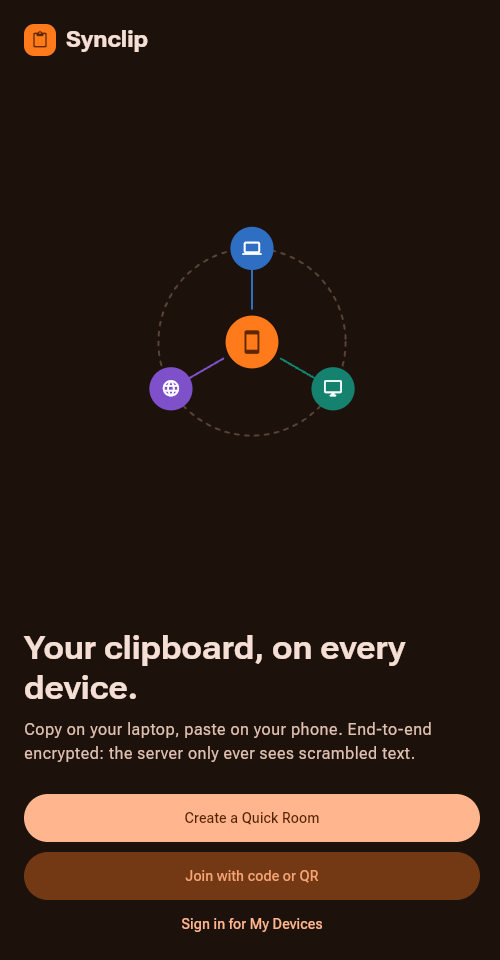
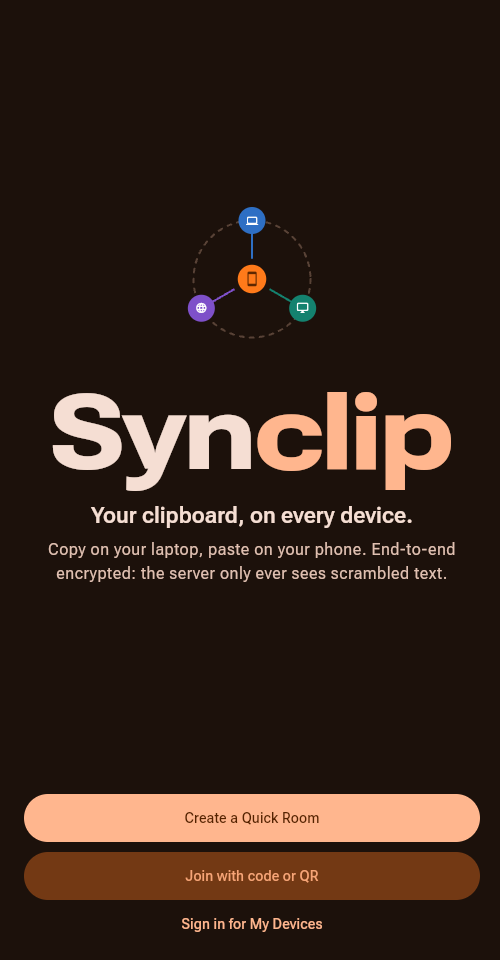
feat(onboarding): make the Synclip wordmark the centred hero
- Huge two-tone Synclip wordmark at the centre of the Welcome screen,
  Roboto Flex at its widest, sized to the screen width (logotype, so it
  ignores text scaling) and exposed as a heading
- Device ring shrinks above it; tagline and promise centred below
- Test: wordmark is a header, horizontally centred, in the middle band,
  and more than twice the tagline size
- Design canvas Welcome board and PLAN.md §7.6 updated to match

diff --git a/design/canvas/project/ScreenWelcome.dc.html b/design/canvas/project/ScreenWelcome.dc.html
@@ -16,29 +16,22 @@ a{color:#A43D00}a:hover{color:#7A2C00}
 button{font-family:inherit;cursor:pointer}
 </style>
 </helmet>
-<div style="width: 390px; height: 844px; box-sizing: border-box; padding: 56px 24px 32px; background: #FFF8F6; display: flex; flex-direction: column; font-family: 'Roboto Flex', system-ui, sans-serif; color: #231A16;">
-  <div style="display: flex; align-items: center; gap: 10px;">
-    <div style="width: 32px; height: 32px; border-radius: 10px; background: #FF7A1A; color: #3A1400; display: flex; align-items: center; justify-content: center;"><svg width="18" height="18" viewBox="0 0 24 24" fill="none" stroke="currentColor" stroke-width="2.4" stroke-linecap="round" stroke-linejoin="round"><rect x="8" y="2" width="8" height="4" rx="1"/><path d="M16 4h2a2 2 0 0 1 2 2v14a2 2 0 0 1-2 2H6a2 2 0 0 1-2-2V6a2 2 0 0 1 2-2h2"/></svg></div>
-    <span style="font-size: 22px; font-weight: 750; font-stretch: 125%;">Synclip</span>
-  </div>
-
-  <div style="flex-grow: 1; display: flex; align-items: center; justify-content: center;">
-    <div style="position: relative; width: 260px; height: 260px;">
-      <div style="position: absolute; left: 20px; top: 20px; width: 220px; height: 220px; border-radius: 50%; border: 2px dashed #DDC1B6; box-sizing: border-box;"></div>
-      <svg width="260" height="260" viewBox="0 0 260 260" style="position: absolute; left: 0; top: 0;" fill="none" stroke-width="2" stroke-linecap="round"><path d="M130 130 L130 30" stroke="#2E6FC4"/><path d="M130 130 L43 180" stroke="#14826F"/><path d="M130 130 L217 180" stroke="#7E50C9"/></svg>
-      <div style="position: absolute; left: 94px; top: 94px; width: 72px; height: 72px; border-radius: 36px; background: #FF7A1A; color: #3A1400; display: flex; align-items: center; justify-content: center; box-shadow: 0 0 0 8px #FFF8F6;"><svg width="30" height="30" viewBox="0 0 24 24" fill="none" stroke="currentColor" stroke-width="2" stroke-linecap="round" stroke-linejoin="round"><rect x="5" y="2" width="14" height="20" rx="2"/><path d="M12 18h.01"/></svg></div>
-      <div style="position: absolute; left: 106px; top: 6px; width: 48px; height: 48px; border-radius: 24px; background: #2E6FC4; color: #FFFFFF; display: flex; align-items: center; justify-content: center;"><svg width="22" height="22" viewBox="0 0 24 24" fill="none" stroke="currentColor" stroke-width="2" stroke-linecap="round" stroke-linejoin="round"><path d="M4 16V6a2 2 0 0 1 2-2h12a2 2 0 0 1 2 2v10"/><path d="M2 20h20"/></svg></div>
-      <div style="position: absolute; left: 19px; top: 156px; width: 48px; height: 48px; border-radius: 24px; background: #14826F; color: #FFFFFF; display: flex; align-items: center; justify-content: center;"><svg width="22" height="22" viewBox="0 0 24 24" fill="none" stroke="currentColor" stroke-width="2" stroke-linecap="round" stroke-linejoin="round"><rect x="2" y="3" width="20" height="14" rx="2"/><path d="M8 21h8M12 17v4"/></svg></div>
-      <div style="position: absolute; left: 193px; top: 156px; width: 48px; height: 48px; border-radius: 24px; background: #7E50C9; color: #FFFFFF; display: flex; align-items: center; justify-content: center;"><svg width="22" height="22" viewBox="0 0 24 24" fill="none" stroke="currentColor" stroke-width="2" stroke-linecap="round" stroke-linejoin="round"><circle cx="12" cy="12" r="10"/><path d="M2 12h20M12 2a15 15 0 0 1 0 20M12 2a15 15 0 0 0 0 20"/></svg></div>
+<div style="width: 390px; height: 844px; box-sizing: border-box; padding: 40px 24px 28px; background: #FFF8F6; display: flex; flex-direction: column; font-family: 'Roboto Flex', system-ui, sans-serif; color: #231A16;">
+  <div style="flex-grow: 1; display: flex; flex-direction: column; align-items: center; justify-content: center; gap: 0;">
+    <div style="position: relative; width: 150px; height: 150px; margin-bottom: 28px;">
+      <div style="position: absolute; left: 16px; top: 16px; width: 118px; height: 118px; border-radius: 50%; border: 2px dashed #DDC1B6; box-sizing: border-box;"></div>
+      <svg width="150" height="150" viewBox="0 0 150 150" style="position: absolute; left: 0; top: 0;" fill="none" stroke-width="2" stroke-linecap="round"><path d="M75 75 L75 16" stroke="#2E6FC4"/><path d="M75 75 L24 104" stroke="#7E50C9"/><path d="M75 75 L126 104" stroke="#14826F"/></svg>
+      <div style="position: absolute; left: 55px; top: 55px; width: 40px; height: 40px; border-radius: 20px; background: #FF7A1A; color: #3A1400; display: flex; align-items: center; justify-content: center; box-shadow: 0 0 0 5px #FFF8F6;"><svg width="18" height="18" viewBox="0 0 24 24" fill="none" stroke="currentColor" stroke-width="2" stroke-linecap="round" stroke-linejoin="round"><rect x="5" y="2" width="14" height="20" rx="2"/><path d="M12 18h.01"/></svg></div>
+      <div style="position: absolute; left: 61px; top: 2px; width: 28px; height: 28px; border-radius: 14px; background: #2E6FC4; color: #FFFFFF; display: flex; align-items: center; justify-content: center;"><svg width="14" height="14" viewBox="0 0 24 24" fill="none" stroke="currentColor" stroke-width="2" stroke-linecap="round" stroke-linejoin="round"><path d="M4 16V6a2 2 0 0 1 2-2h12a2 2 0 0 1 2 2v10"/><path d="M2 20h20"/></svg></div>
+      <div style="position: absolute; left: 10px; top: 90px; width: 28px; height: 28px; border-radius: 14px; background: #7E50C9; color: #FFFFFF; display: flex; align-items: center; justify-content: center;"><svg width="14" height="14" viewBox="0 0 24 24" fill="none" stroke="currentColor" stroke-width="2" stroke-linecap="round" stroke-linejoin="round"><circle cx="12" cy="12" r="10"/><path d="M2 12h20M12 2a15 15 0 0 1 0 20M12 2a15 15 0 0 0 0 20"/></svg></div>
+      <div style="position: absolute; left: 112px; top: 90px; width: 28px; height: 28px; border-radius: 14px; background: #14826F; color: #FFFFFF; display: flex; align-items: center; justify-content: center;"><svg width="14" height="14" viewBox="0 0 24 24" fill="none" stroke="currentColor" stroke-width="2" stroke-linecap="round" stroke-linejoin="round"><rect x="2" y="3" width="20" height="14" rx="2"/><path d="M8 21h8M12 17v4"/></svg></div>
     </div>
+    <h1 style="margin: 0; font-size: 78px; line-height: 1; letter-spacing: -2px; font-weight: 900; font-stretch: 151%; white-space: nowrap;">Syn<span style="color: #A43D00;">clip</span></h1>
+    <div style="margin-top: 16px; font-size: 22px; font-weight: 600; text-align: center;">Your clipboard, on every device.</div>
+    <p style="margin: 8px 0 0; font-size: 16px; line-height: 1.5; color: #56423A; text-align: center;">Copy on your laptop, paste on your phone. End-to-end encrypted: the server only ever sees scrambled text.</p>
   </div>
 
-  <div style="display: flex; flex-direction: column; gap: 10px; padding-bottom: 28px;">
-    <h1 style="margin: 0; font-size: 34px; line-height: 1.1; font-weight: 750; font-stretch: 120%;">Your clipboard, on every device.</h1>
-    <p style="margin: 0; font-size: 16px; line-height: 1.5; color: #56423A;">Copy on your laptop, paste on your phone. End-to-end encrypted: the server only ever sees scrambled text.</p>
-  </div>
-
-  <div style="display: flex; flex-direction: column; gap: 10px;">
+  <div style="display: flex; flex-direction: column; gap: 10px; margin-top: 28px;">
     <button style="height: 56px; border-radius: 28px; border: none; background: #A43D00; color: #FFFFFF; font-size: 16px; font-weight: 600;">Create a Quick Room</button>
     <button style="height: 56px; border-radius: 28px; border: none; background: #FFDBCC; color: #2C160C; font-size: 16px; font-weight: 600;">Join with code or QR</button>
     <button style="height: 48px; border-radius: 24px; border: none; background: transparent; color: #A43D00; font-size: 15px; font-weight: 600;">Sign in for My Devices</button>

diff --git a/lib/features/onboarding/presentation/welcome_screen.dart b/lib/features/onboarding/presentation/welcome_screen.dart
@@ -1,12 +1,16 @@
+import 'dart:math' as math;
+
 import 'package:flutter/material.dart';
 import 'package:synclip/app/theme/tokens.dart';
 import 'package:synclip/shared/widgets/device_ring.dart';
 
-/// First screen: the promise and the three ways in (PLAN.md §7.6.1).
+/// First screen: the brand as the hero, then the three ways in
+/// (PLAN.md §7.6.1).
 class WelcomeScreen extends StatelessWidget {
   const new({super.key});
 
   static const _illustration = DeviceRing(
+    size: 150,
     self: RingNode(
       name: 'this device',
       icon: Icons.smartphone_rounded,
@@ -53,53 +57,60 @@ class WelcomeScreen extends StatelessWidget {
                 child: Column(
                   crossAxisAlignment: CrossAxisAlignment.stretch,
                   children: [
-                    Row(
-                      children: [
-                        Container(
-                          width: 32,
-                          height: 32,
-                          decoration: BoxDecoration(
-                            color: scheme.primaryContainer,
-                            borderRadius: BorderRadius.circular(10),
-                          ),
-                          child: Icon(
-                            Icons.content_paste_rounded,
-                            size: 18,
-                            color: scheme.onPrimaryContainer,
-                          ),
-                        ),
-                        const SizedBox(width: 10),
-                        Flexible(
-                          child: Text(
-                            'Synclip',
-                            overflow: TextOverflow.ellipsis,
-                            style: theme.textTheme.titleLarge?.copyWith(
-                              fontWeight: FontWeight.w800,
-                              fontVariations: const [FontVariation.width(125)],
+                    Expanded(
+                      child: Column(
+                        mainAxisAlignment: MainAxisAlignment.center,
+                        children: [
+                          const ExcludeSemantics(child: _illustration),
+                          const SizedBox(height: 28),
+                          Semantics(
+                            header: true,
+                            child: Text.rich(
+                              TextSpan(
+                                children: [
+                                  const TextSpan(text: 'Syn'),
+                                  TextSpan(
+                                    text: 'clip',
+                                    style: TextStyle(color: scheme.primary),
+                                  ),
+                                ],
+                              ),
+                              // A logotype: sized by the screen, not by
+                              // the text-size setting (WCAG 1.4.4 exempt).
+                              textScaler: TextScaler.noScaling,
+                              style: theme.textTheme.displayLarge?.copyWith(
+                                fontSize: math.min(
+                                  112,
+                                  (viewport.maxWidth - 2 * Tokens.gutter) / 4.4,
+                                ),
+                                height: 1,
+                                letterSpacing: -2,
+                                fontWeight: FontWeight.w900,
+                                fontVariations: const [
+                                  FontVariation.width(Tokens.wordmarkWidth),
+                                ],
+                              ),
                             ),
                           ),
-                        ),
-                      ],
-                    ),
-                    const Expanded(
-                      child: Padding(
-                        padding: EdgeInsets.symmetric(vertical: 32),
-                        child: Center(
-                          child: ExcludeSemantics(child: _illustration),
-                        ),
-                      ),
-                    ),
-                    Text(
-                      'Your clipboard, on every device.',
-                      style: theme.textTheme.headlineLarge,
-                    ),
-                    const SizedBox(height: 10),
-                    Text(
-                      'Copy on your laptop, paste on your phone. '
-                      'End-to-end encrypted: the server only ever sees '
-                      'scrambled text.',
-                      style: theme.textTheme.bodyLarge?.copyWith(
-                        color: scheme.onSurfaceVariant,
+                          const SizedBox(height: 16),
+                          Text(
+                            'Your clipboard, on every device.',
+                            textAlign: TextAlign.center,
+                            style: theme.textTheme.titleLarge?.copyWith(
+                              fontWeight: FontWeight.w600,
+                            ),
+                          ),
+                          const SizedBox(height: 8),
+                          Text(
+                            'Copy on your laptop, paste on your phone. '
+                            'End-to-end encrypted: the server only ever '
+                            'sees scrambled text.',
+                            textAlign: TextAlign.center,
+                            style: theme.textTheme.bodyLarge?.copyWith(
+                              color: scheme.onSurfaceVariant,
+                            ),
+                          ),
+                        ],
                       ),
                     ),
                     const SizedBox(height: 28),

diff --git a/test/features/onboarding/welcome_screen_test.dart b/test/features/onboarding/welcome_screen_test.dart
@@ -46,6 +46,32 @@ void main() {
     });
   }
 
+  testWidgets('makes the Synclip wordmark the big, centred hero', (
+    tester,
+  ) async {
+    final handle = tester.ensureSemantics();
+    await tester.pumpWidget(_app(Brightness.light));
+
+    final wordmark = find.text('Synclip', findRichText: true);
+    expect(wordmark, findsOneWidget);
+    expect(tester.getSemantics(wordmark), isSemantics(isHeader: true));
+
+    final screen = tester.getSize(find.byType(WelcomeScreen));
+    final centre = tester.getCenter(wordmark);
+    expect(centre.dx, moreOrLessEquals(screen.width / 2, epsilon: 1));
+    expect(
+      centre.dy,
+      inInclusiveRange(screen.height * .25, screen.height * .6),
+    );
+
+    final tagline = find.text('Your clipboard, on every device.');
+    expect(
+      tester.widget<RichText>(wordmark).text.style!.fontSize,
+      greaterThan(2 * tester.widget<Text>(tagline).style!.fontSize!),
+    );
+    handle.dispose();
+  });
+
   testWidgets('survives 200% text on a small phone without overflow', (
     tester,
   ) async {

diff --git a/lib/app/theme/tokens.dart b/lib/app/theme/tokens.dart
@@ -11,6 +11,9 @@ abstract final class Tokens {
   /// Width axis for headlines: the brand's wide display voice.
   static const headlineWidth = 120.0;
 
+  /// The wordmark runs at Roboto Flex's widest setting.
+  static const wordmarkWidth = 151.0;
+
   /// Device colours for ring nodes and source chips. The full 8-colour set
   /// (PLAN.md §7.1) arrives with per-device colour picking in M1.
   static const deviceBlue = Color(0xFF2E6FC4);

diff --git a/PLAN.md b/PLAN.md
@@ -470,7 +470,7 @@ The room switcher lives in the top app bar title (a dropdown listing My Devices 
 | Snackbars | Sent to 2 devices · Copied · Undo (auto-send) · errors with actions |
 
 ### 7.6 Screens
-1. **Welcome:** wordmark, one line ("Your clipboard, on every device."), then **Create Quick Room** (filled), **Join with code or QR** (tonal), **Sign in for My Devices** (text).
+1. **Welcome:** the brand is the hero: a huge two-tone "Syn**clip**" wordmark at the centre (Roboto Flex at its widest, sized to the screen), the device ring above it, one line ("Your clipboard, on every device.") below, then **Create Quick Room** (filled), **Join with code or QR** (tonal), **Sign in for My Devices** (text).
 2. **Android setup** (once): add the Quick Settings tile, notification permission, auto-send toggle. Every step is skippable.
 3. **Room · Clips** (home): compact ring + ConnectionPill, then the hero clip, then history. Uses the FAB on Android/web and the watcher state on desktop.
 4. **Room · Devices:** large ring, RoomCodeDisplay + QR (Quick Room), member list with remove, pending requests, Leave room.
